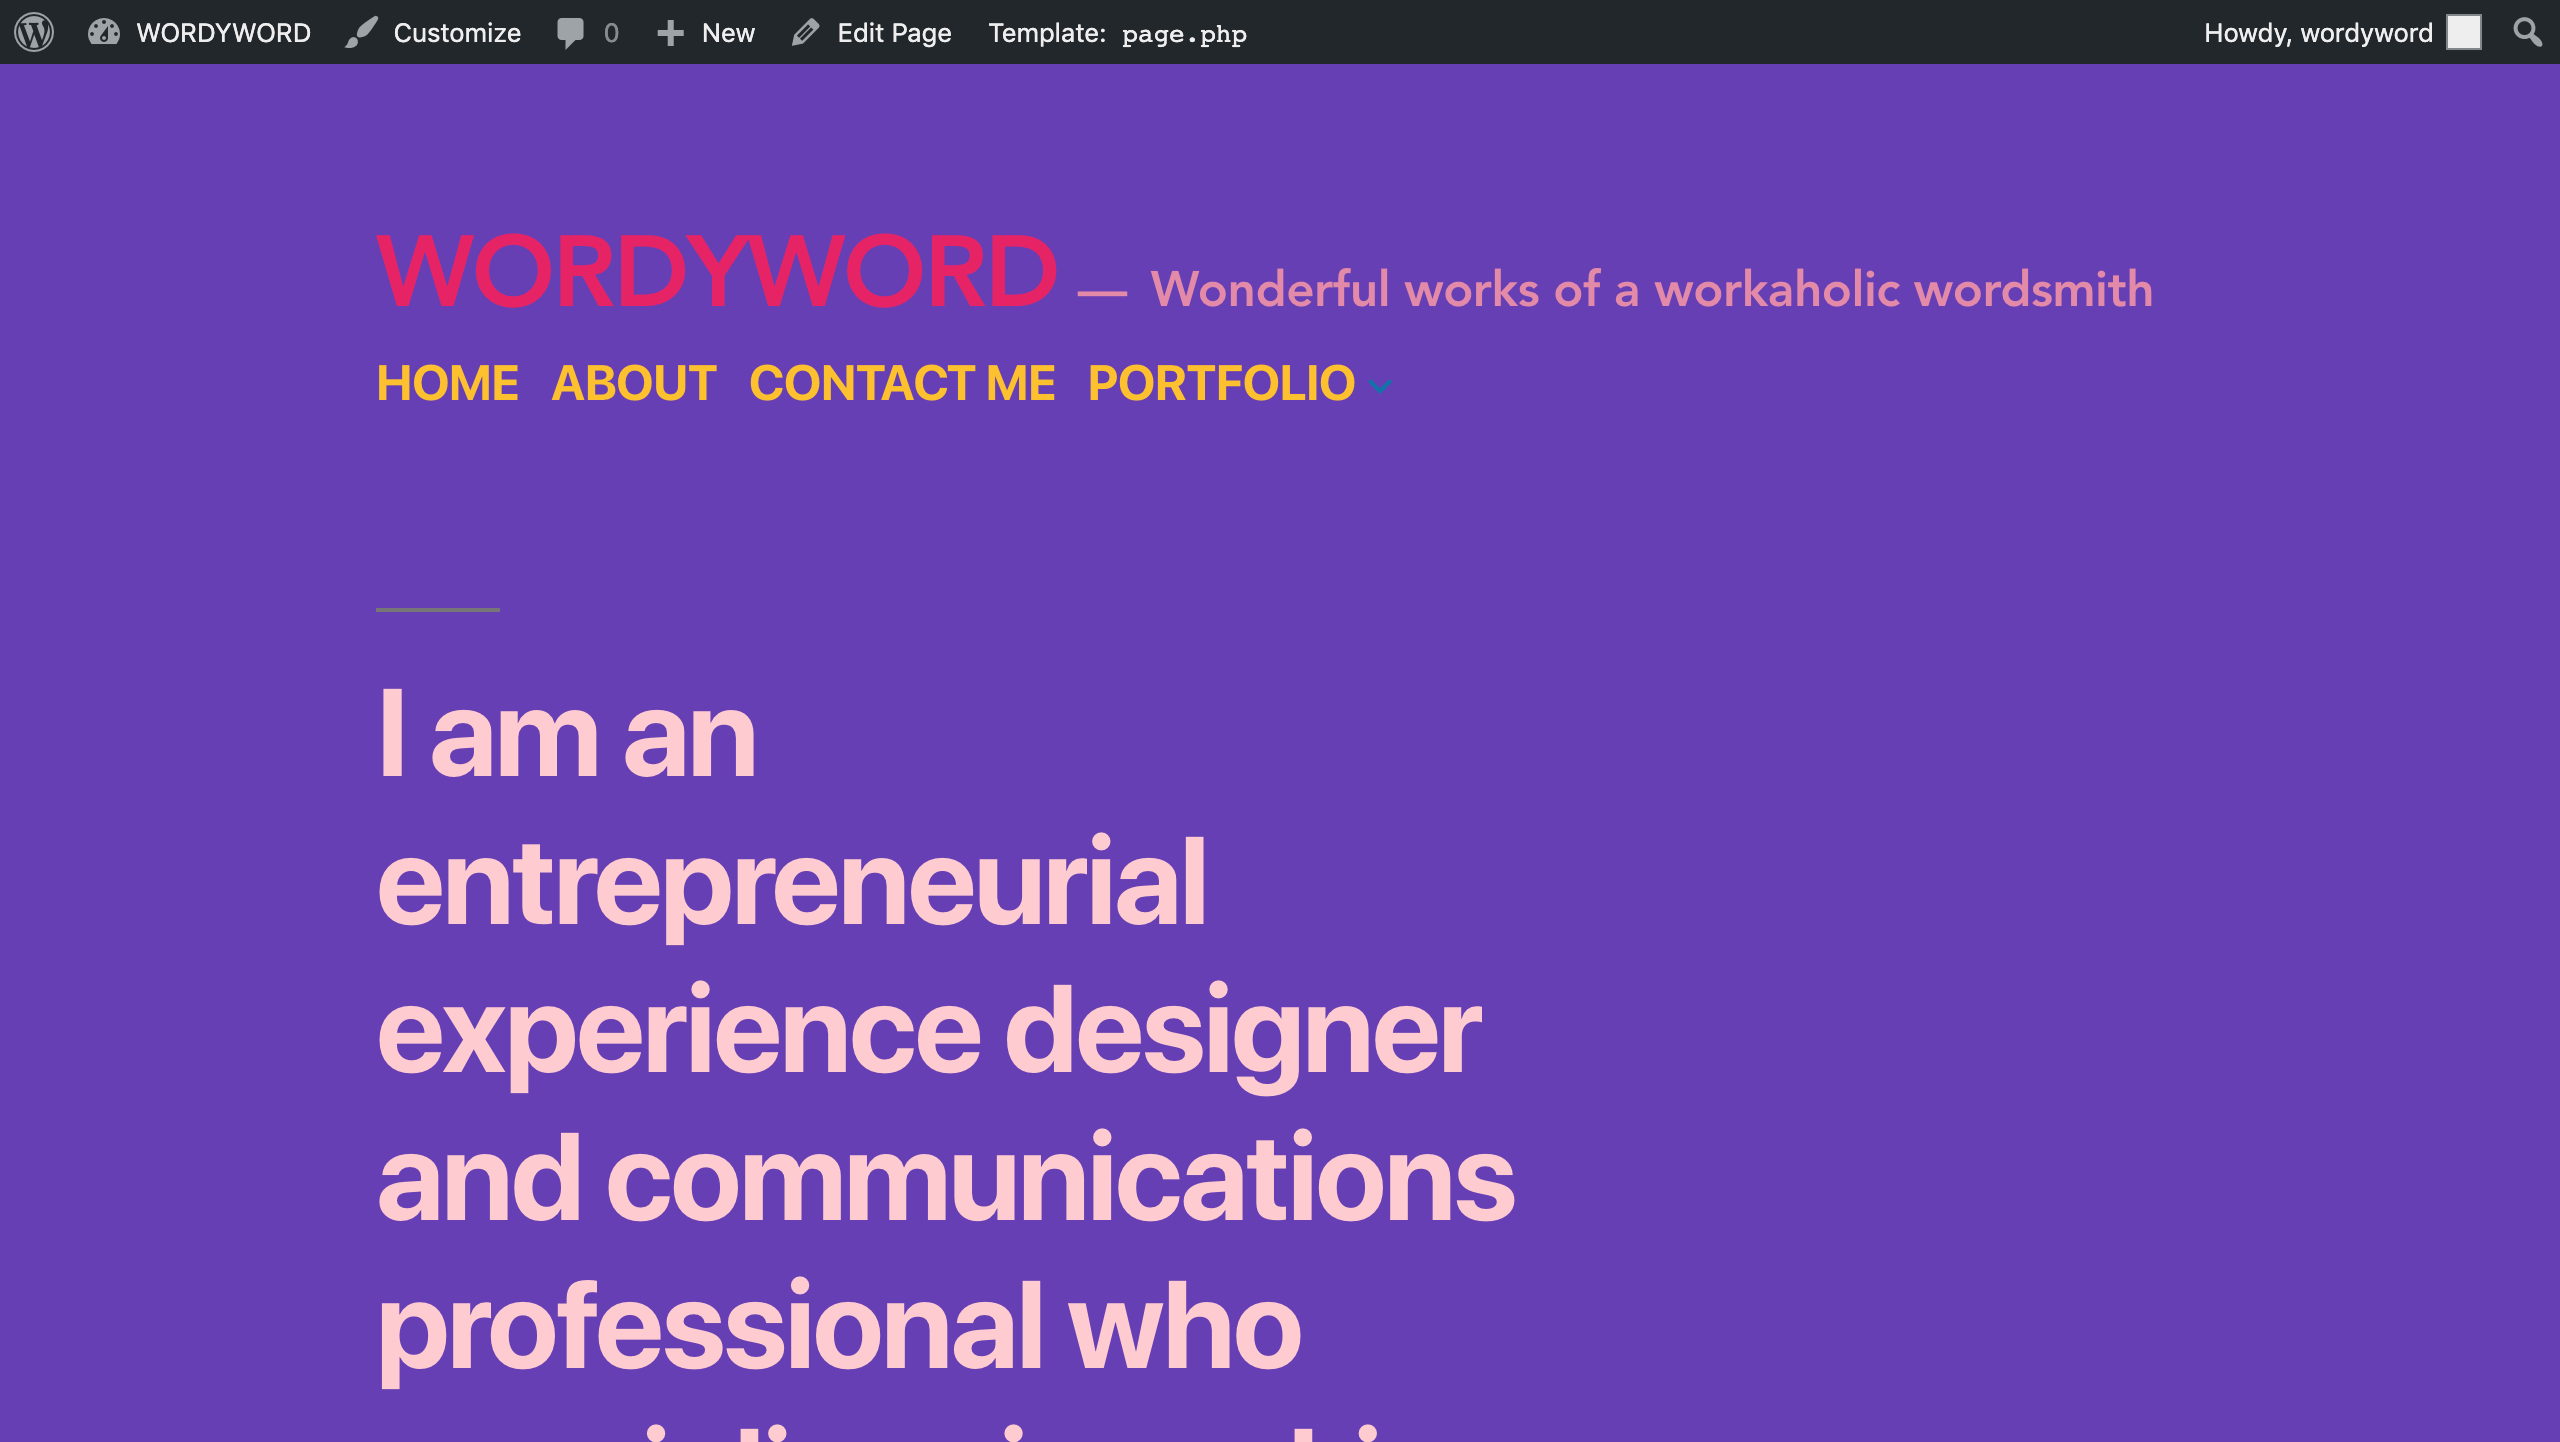
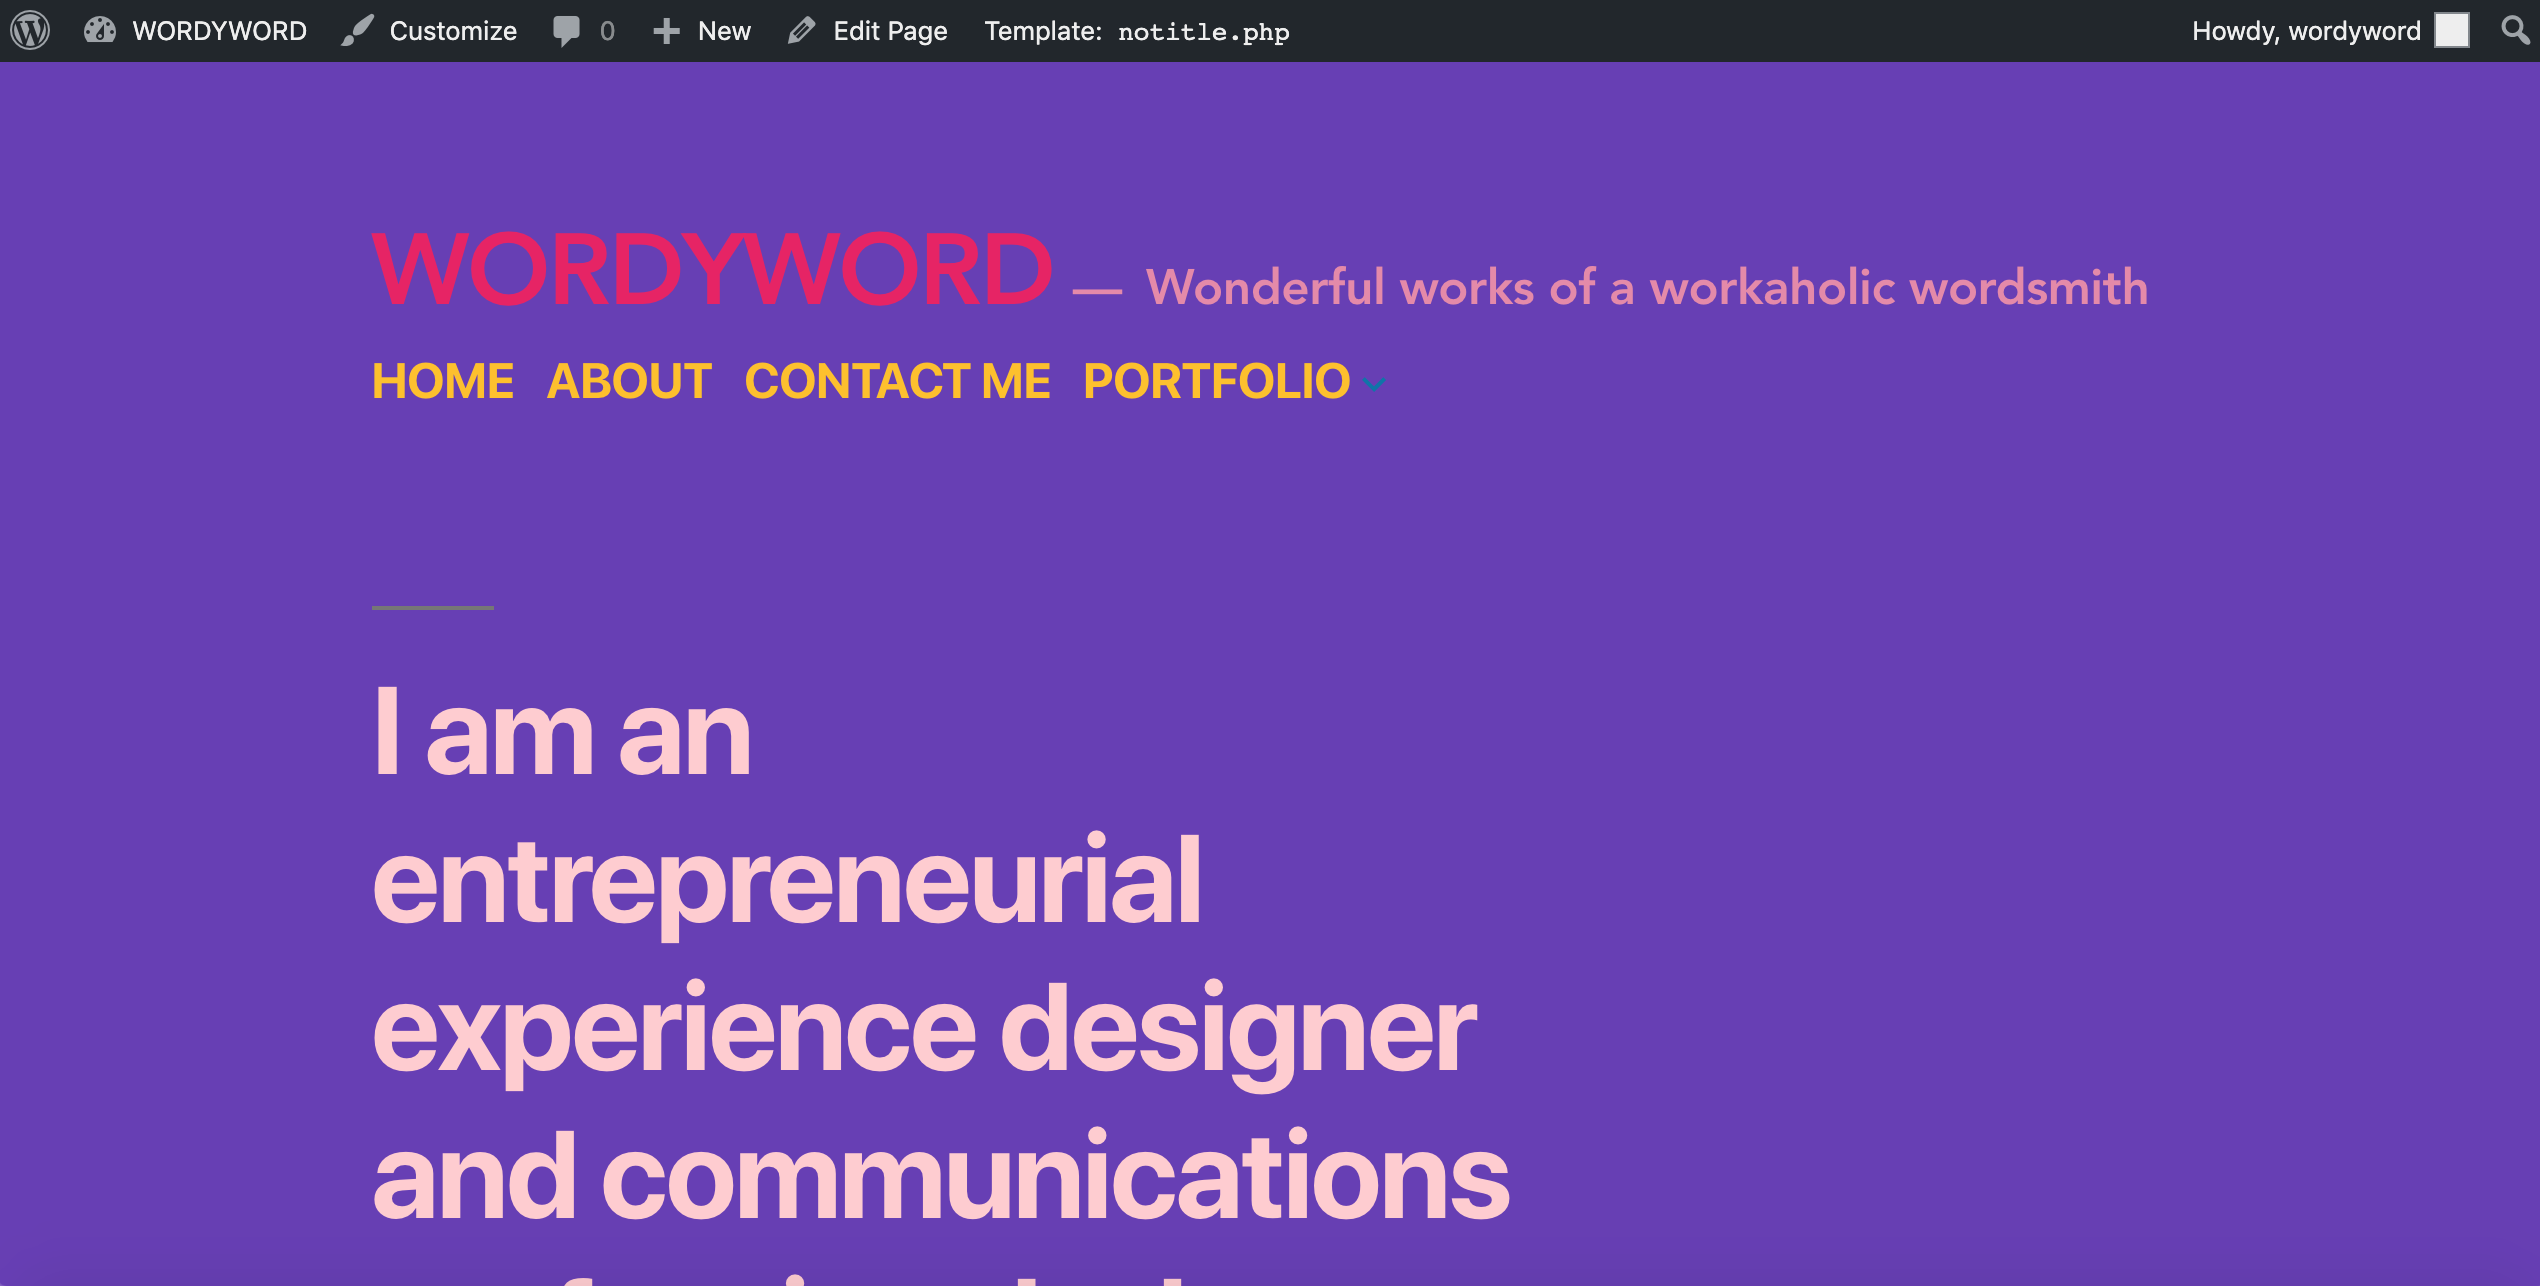
I added custom .php templates and relabled another plus set a custom theme on my about page

diff --git a/wp-content/themes/childof2019/PageWithoutSidebar.php b/wp-content/themes/childof2019/PageWithoutSidebar.php
@@ -1,0 +1,52 @@
+
+<?php /* Template Name: PageWithoutSidebar */ ?>
+
+get_header();
+?>
+
+	<section id="primary" class="content-area">
+		<main id="main" class="site-main">
+			<?php
+
+			/* Start the Loop */
+			while ( have_posts() ) :
+				the_post();
+
+				get_template_part( 'template-parts/content/content', 'single' );
+
+				if ( is_singular( 'attachment' ) ) {
+					// Parent post navigation.
+					the_post_navigation(
+						array(
+							/* translators: %s: parent post link */
+							'prev_text' => sprintf( __( '<span class="meta-nav">Published in</span><span class="post-title">%s</span>', 'twentynineteen' ), '%title' ),
+						)
+					);
+				}/*
+				elseif ( is_singular( 'post' ) ) {
+					// Previous/next post navigation.
+					the_post_navigation(
+						array(
+							'next_text' => '<span class="meta-nav" aria-hidden="true">' . __( 'Next Post', 'twentynineteen' ) . '</span> ' .
+								'<span class="screen-reader-text">' . __( 'Next post:', 'twentynineteen' ) . '</span> <br/>' .
+								'<span class="post-title">%title</span>',
+							'prev_text' => '<span class="meta-nav" aria-hidden="true">' . __( 'Previous Post', 'twentynineteen' ) . '</span> ' .
+								'<span class="screen-reader-text">' . __( 'Previous post:', 'twentynineteen' ) . '</span> <br/>' .
+								'<span class="post-title">%title</span>',
+						)
+					);
+				}
+
+				// If comments are open or we have at least one comment, load up the comment template.
+				if ( comments_open() || get_comments_number() ) {
+					comments_template();
+				}*/
+
+			endwhile; // End of the loop.
+			?>
+
+		</main><!-- #main -->
+	</section><!-- #primary -->
+
+<?php
+get_footer();

diff --git a/wp-content/themes/childof2019/notitle.php b/wp-content/themes/childof2019/notitle.php
@@ -1,16 +1,11 @@
 <?php
-/**
- * The template for displaying all single posts
- *
- * @link https://developer.wordpress.org/themes/basics/template-hierarchy/#single-post
- *
- * @package WordPress
- * @subpackage Twenty_Nineteen
- * @since 1.0.0
+/*
+ * Template Name: notitle
  */
+  
+ get_header();  ?>
 
-get_header();
-?>
+
 
 	<section id="primary" class="content-area">
 		<main id="main" class="site-main">
@@ -22,11 +17,11 @@ get_header();
 				the_post();
 
 				get_template_part( 'template-parts/content/content', 'page' );
-
+/*
 				// If comments are open or we have at least one comment, load up the comment template.
 				if ( comments_open() || get_comments_number() ) {
 					comments_template();
-				}
+				}*/
 
 			endwhile; // End of the loop.
 			?>

diff --git a/wp-content/themes/childof2019/functions.php b/wp-content/themes/childof2019/functions.php
@@ -18,3 +18,13 @@ function wpb_add_google_fonts() {
 }
 
 add_action( 'wp_enqueue_scripts', 'wpb_add_google_fonts' );
+
+/*
+* Define a constant path to our single template folder
+*/
+define(SINGLE_PATH, TEMPLATEPATH . '/single');
+ 
+/**
+* Filter the single_template with our custom function
+*/
+add_filter('single_template', 'my_single_template');
